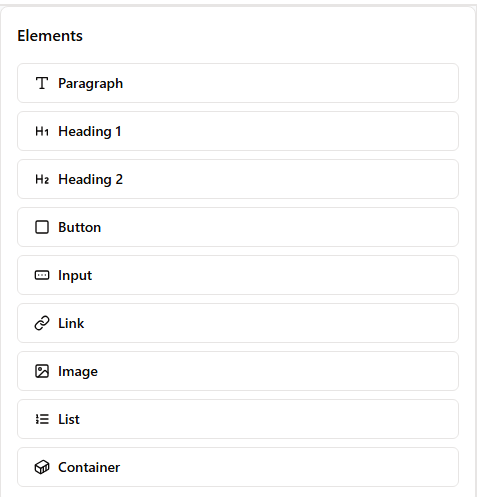
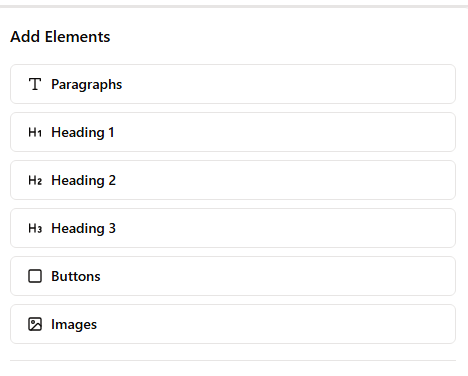
Agent query: Please check: 1. Is the 'Add Elements' section removed? 2. When you hover over elements in the sidebar, do they highlight in the preview? 3. When you click an element in the sidebar, does the preview scroll to it and highlight it? 4. Can you edit the elements directly from the sidebar?
Enhance element selection in editor: Add hover and highlight styles, improve element selection and editing experience.

Screenshot: https://storage.googleapis.com/screenshot-production-us-central1/adf5d331-183d-49f7-a6eb-45b8566e7134/e8acc460-f3a0-4297-86d3-1cb12885f403.jpg

diff --git a/client/src/components/editor/ElementPalette.tsx b/client/src/components/editor/ElementPalette.tsx
@@ -68,7 +68,22 @@ function ElementsList({ type }: { type: string }) {
       const elementInPreview = previewFrame.contentDocument.querySelector(
         `[data-element-id="${element.getAttribute('data-element-id')}"]`
       ) as HTMLElement;
+      
       if (elementInPreview) {
+        // Highlight the element
+        const prevHighlighted = previewFrame.contentDocument.querySelector('.element-highlight');
+        if (prevHighlighted) {
+          prevHighlighted.classList.remove('element-highlight');
+        }
+        elementInPreview.classList.add('element-highlight');
+        
+        // Scroll the element into view
+        elementInPreview.scrollIntoView({ behavior: 'smooth', block: 'center' });
+        
+        // Make element editable
+        elementInPreview.contentEditable = 'true';
+        elementInPreview.focus();
+        
         setSelectedElement(elementInPreview);
       }
     }
@@ -82,6 +97,28 @@ function ElementsList({ type }: { type: string }) {
           variant="ghost"
           className="w-full justify-start text-sm"
           onClick={() => handleElementClick(element)}
+          onMouseEnter={() => {
+            const previewFrame = document.querySelector('iframe');
+            if (previewFrame?.contentDocument) {
+              const elementInPreview = previewFrame.contentDocument.querySelector(
+                `[data-element-id="${element.getAttribute('data-element-id')}"]`
+              ) as HTMLElement;
+              if (elementInPreview) {
+                elementInPreview.classList.add('element-hover');
+              }
+            }
+          }}
+          onMouseLeave={() => {
+            const previewFrame = document.querySelector('iframe');
+            if (previewFrame?.contentDocument) {
+              const elementInPreview = previewFrame.contentDocument.querySelector(
+                `[data-element-id="${element.getAttribute('data-element-id')}"]`
+              ) as HTMLElement;
+              if (elementInPreview) {
+                elementInPreview.classList.remove('element-hover');
+              }
+            }
+          }}
         >
           {element.textContent || `${type} ${index + 1}`}
         </Button>
@@ -97,38 +134,22 @@ export function ElementPalette() {
   return (
     <Card className="h-full p-4 overflow-auto">
       <div className="space-y-4">
-        <div>
-          <h3 className="font-medium mb-4">Add Elements</h3>
-          <div className="space-y-2">
-            {elementTypes.map((element) => (
-              <DraggableElement
-                key={element.id}
-                type={element.id}
-                icon={element.icon}
-                label={element.label}
-              />
-            ))}
-          </div>
-        </div>
-        
-        <div className="border-t pt-4">
-          <h3 className="font-medium mb-4">Existing Elements</h3>
-          <Accordion type="single" collapsible className="w-full">
-            {elementTypes.map((element) => (
-              <AccordionItem key={element.id} value={element.id}>
-                <AccordionTrigger className="text-sm">
-                  <span className="flex items-center gap-2">
-                    <element.icon className="h-4 w-4" />
-                    {element.label}
-                  </span>
-                </AccordionTrigger>
-                <AccordionContent>
-                  <ElementsList type={element.id} />
-                </AccordionContent>
-              </AccordionItem>
-            ))}
-          </Accordion>
-        </div>
+        <h3 className="font-medium mb-4">Page Elements</h3>
+        <Accordion type="single" collapsible className="w-full">
+          {elementTypes.map((element) => (
+            <AccordionItem key={element.id} value={element.id}>
+              <AccordionTrigger className="text-sm">
+                <span className="flex items-center gap-2">
+                  <element.icon className="h-4 w-4" />
+                  {element.label}
+                </span>
+              </AccordionTrigger>
+              <AccordionContent>
+                <ElementsList type={element.id} />
+              </AccordionContent>
+            </AccordionItem>
+          ))}
+        </Accordion>
       </div>
     </Card>
   );

diff --git a/client/src/components/editor/Preview.tsx b/client/src/components/editor/Preview.tsx
@@ -61,14 +61,20 @@ export function Preview({ mode }: PreviewProps) {
           }}
         />
         <style>{`
-          [data-preview] * {
+          * {
             outline: 1px solid transparent;
-            transition: outline 0.2s ease;
+            transition: all 0.2s ease;
           }
-          [data-preview] *:hover {
-            outline: 2px solid #3b82f6;
+          .element-hover {
+            outline: 2px solid #3b82f6 !important;
+            background-color: rgba(59, 130, 246, 0.1);
           }
-          [data-preview] *:focus {
+          .element-highlight {
+            outline: 3px solid #2563eb !important;
+            outline-offset: 2px;
+            background-color: rgba(37, 99, 235, 0.1);
+          }
+          *:focus {
             outline: 2px solid #2563eb;
             outline-offset: 2px;
           }
